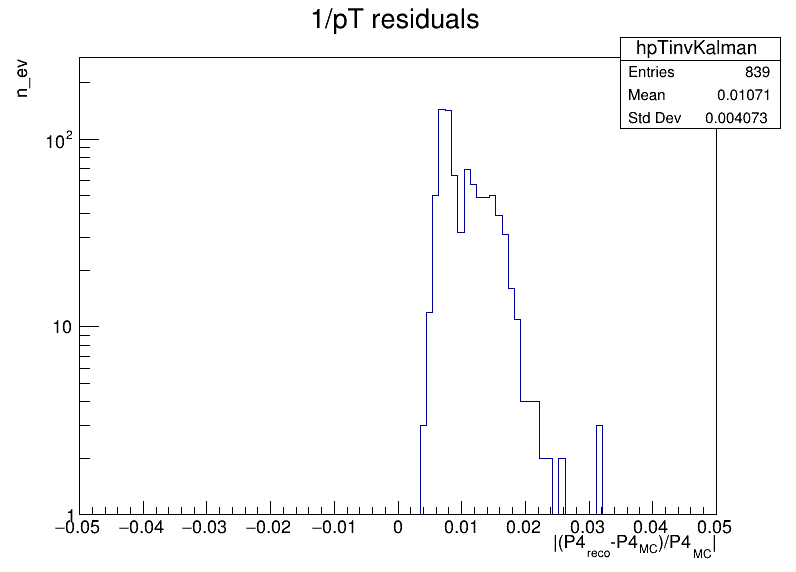
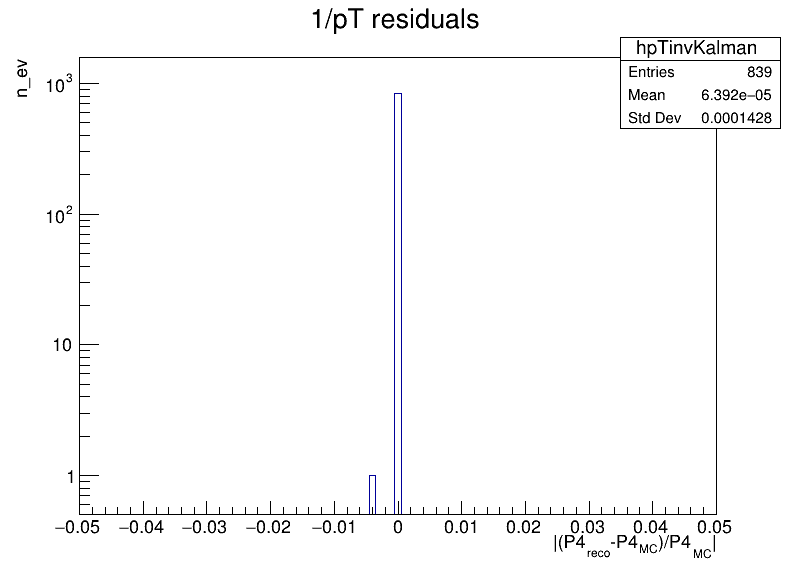
Garlite Kalman covariance back propagation bug fix

diff --git a/kalman/kalman_helix_garlite_Alice_Eloss_test_corr_pred_rndm.C b/kalman/kalman_helix_garlite_Alice_Eloss_test_corr_pred_rndm.C
@@ -512,7 +512,7 @@ void KalmanFit(
                    Bool_t Energy_loss,
                    std::vector<double> invpTplane,
                    std::string CorrTime,
-                   Bool_t Backward_separate
+                   Bool_t Fixed_Cov
 
                    
 
@@ -575,7 +575,7 @@ void KalmanFit(
       P[2][2] = TMath::Sq(3);  // sinphi uncertainty 0.5
       P[3][3] = TMath::Sq(3);  // tanlambda uncertainty 0.5
       P[4][4] = TMath::Sq(75);  // q/pT uncertainty 0.5
-      if(dir<0 && !Backward_separate) P=Pt.at(Pt.size()-1);
+      if(dir<0 &&  !Fixed_Cov) P=Pt.at(Pt.size()-1);
       TMatrixD PPred(5,5);
       PPred.Zero();
 
@@ -938,7 +938,7 @@ void kalman_helix_garlite_Alice_Eloss_test_corr_pred_rndm(size_t nevents)
       //std::cout << std::setprecision(17);
       
 
-      TFile fs("./toygarlite/nosmear_realseed_elosscorr_fixedp0.7_bkwsep/garlitetest_nosmear_realseed_elosscorr_r001_001_fixedp0.7.root","recreate");
+      TFile fs("./toygarlite/nosmear_realseed_elosscorr_fixedp0.7_unfixedcov/garlitetest_nosmear_realseed_elosscorr_r001_001_fixedp0.7_unfixedcov.root","recreate");
       //TFile fs("test.root","recreate");
       TTree t1s("t1s","helix simple tree");
 
@@ -946,7 +946,8 @@ void kalman_helix_garlite_Alice_Eloss_test_corr_pred_rndm(size_t nevents)
       std::string Seedtype = "real"; //perfect or real
       std::string Energy_Smear = "no"; //gauss or landau
       std::string CorrTime = ""; //select if apply energy loss correction before or after a posteriori step. Either "after" or anything else for "before"
-      Bool_t Backward_separate = true; // apply Kalman filter backwards reusing the Helix fit and not the final point in the forward Kalman
+      Bool_t Backward_separate = false; // apply Kalman filter backwards reusing the Helix fit and not the final point in the forward Kalman
+      Bool_t Fixed_Cov = false; // apply Kalman filter backwards using fixed guess values for the covariance matrix
       Bool_t Energy_loss_corr = true;
       Bool_t Energy_loss = true;
       Bool_t Smear = false;
@@ -1527,8 +1528,8 @@ void kalman_helix_garlite_Alice_Eloss_test_corr_pred_rndm(size_t nevents)
         
 
         if(printlevelKalman>0) std::cout << " Real Values: y " << xyz_plane.at(0).Y() << " x " << xyz_plane.at(0).X() << " sinphi " << sinphi_plane.at(0) << " tanlambda " << tanlambda_plane.at(0) << " 1/pT " << invpT_plane.at(0) << " p: " <<sqrt(pxyz_plane.at(0).Mag2())<< std::endl;
-        if(Smear==kFALSE) KalmanFit(xht,yht,zht,parvect,predstept,Pt,PPredt,Rt,zpost,xyz_plane,sinphi_plane,Ry,Rx,Ryx,xyz_seed,tanlambda_seed,curvature_seed,sinphi_seed,forward,status,printlevelKalman,dEreco,dxreco,Energy_loss_corr,invpT_plane,CorrTime,Backward_separate);
-        else KalmanFit(xht,yht,zht,parvect,predstept,Pt,PPredt,Rt,zpost,xyz_plane_sm,sinphi_plane,Ry,Rx,Ryx,xyz_seed,tanlambda_seed,curvature_seed,sinphi_seed,forward,status,printlevelKalman,dEreco,dxreco,Energy_loss_corr,invpT_plane,CorrTime,Backward_separate);
+        if(Smear==kFALSE) KalmanFit(xht,yht,zht,parvect,predstept,Pt,PPredt,Rt,zpost,xyz_plane,sinphi_plane,Ry,Rx,Ryx,xyz_seed,tanlambda_seed,curvature_seed,sinphi_seed,forward,status,printlevelKalman,dEreco,dxreco,Energy_loss_corr,invpT_plane,CorrTime,Fixed_Cov);
+        else KalmanFit(xht,yht,zht,parvect,predstept,Pt,PPredt,Rt,zpost,xyz_plane_sm,sinphi_plane,Ry,Rx,Ryx,xyz_seed,tanlambda_seed,curvature_seed,sinphi_seed,forward,status,printlevelKalman,dEreco,dxreco,Energy_loss_corr,invpT_plane,CorrTime,Fixed_Cov);
         //std::cout<<"status= "<<status<<std::endl;
         //std::cout<<"checkKal4"<<std::endl;
         
@@ -1576,7 +1577,7 @@ void kalman_helix_garlite_Alice_Eloss_test_corr_pred_rndm(size_t nevents)
         //std::cout<<" "<<std::endl<<std::endl;
         
         
-        KalmanFit(xht_bkw,yht_bkw,zht_bkw,parvect_bkw,predstept_bkw,Pt_bkw,PPredt_bkw,Rt_bkw,zpost_bkw,xyz_plane_bkw,sinphi_plane_bkw,Ry,Rx,Ryx,xyz_seed_bkw,tanlambda_seed_bkw,curvature_seed_bkw,sinphi_seed_bkw,backwards,status,printlevelKalman,dEreco,dxreco,Energy_loss_corr,invpT_plane_bkw,CorrTime,Backward_separate);
+        KalmanFit(xht_bkw,yht_bkw,zht_bkw,parvect_bkw,predstept_bkw,Pt_bkw,PPredt_bkw,Rt_bkw,zpost_bkw,xyz_plane_bkw,sinphi_plane_bkw,Ry,Rx,Ryx,xyz_seed_bkw,tanlambda_seed_bkw,curvature_seed_bkw,sinphi_seed_bkw,backwards,status,printlevelKalman,dEreco,dxreco,Energy_loss_corr,invpT_plane_bkw,CorrTime,Fixed_Cov);
         //std::cout<<"status= "<<status<<std::endl;
         }
         //std::cout<<"checkKal6"<<std::endl;
